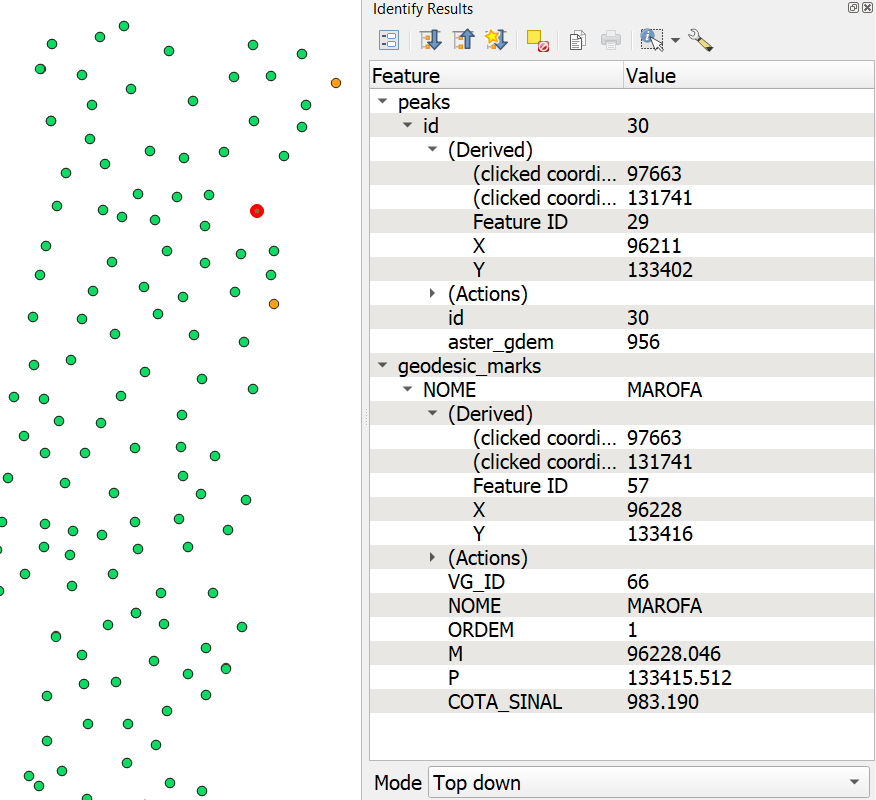
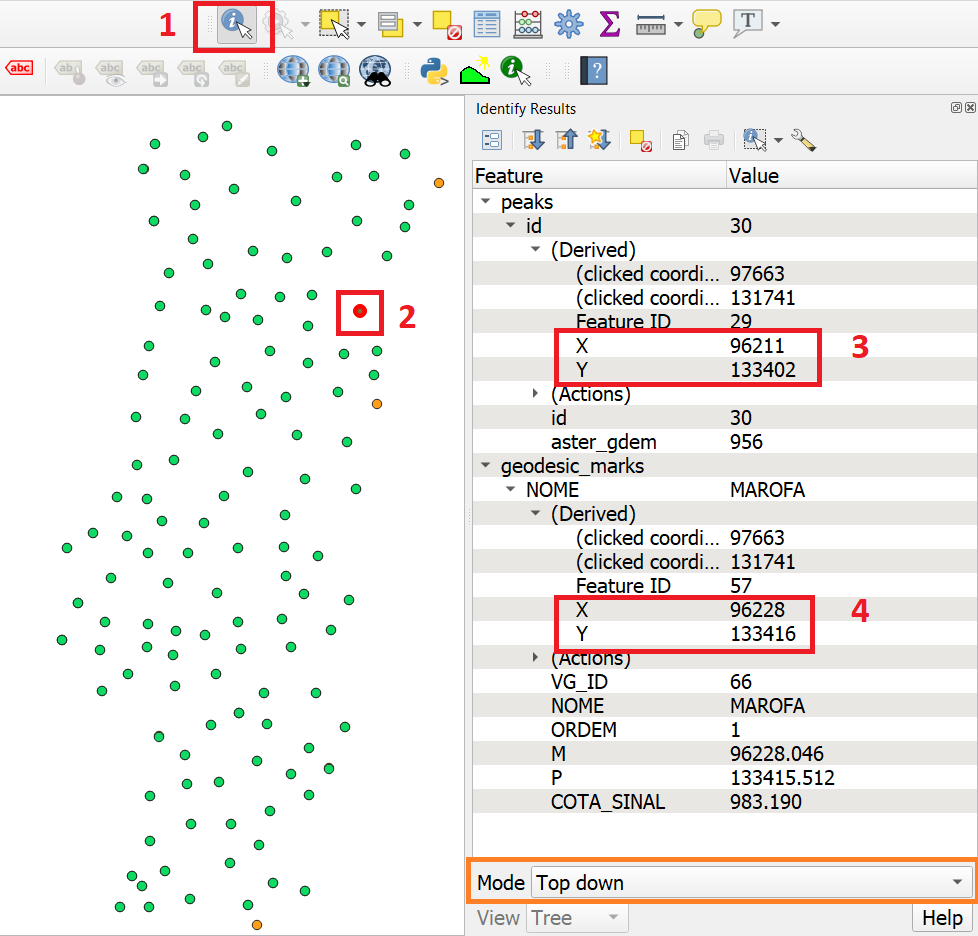
cahange image

diff --git a/docs/source/data-quality.rst b/docs/source/data-quality.rst
@@ -50,7 +50,7 @@ Task 1
 
 
 .. _fig-find-coor:
-.. figure:: _static/img/task-find-coor.png
+.. figure:: _static/img/task-find-coor2.png
    :alt: find coordinate in identity tool
    :figclass: align-center
 
